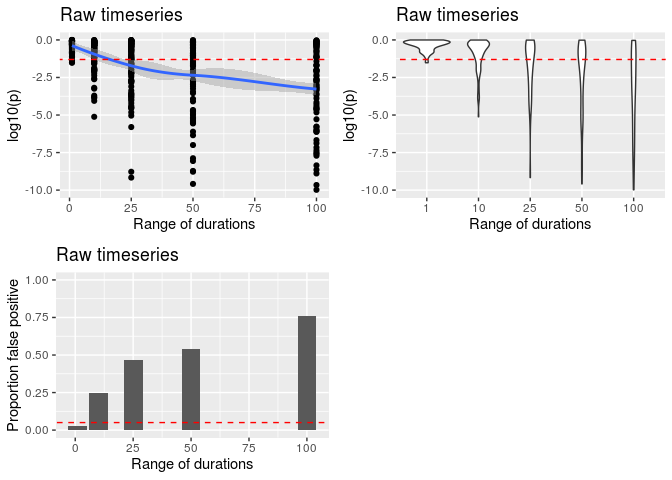
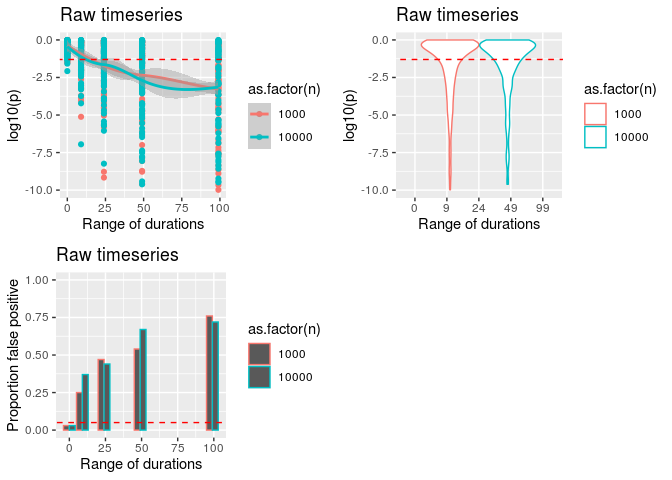
Knit the duration simulations

diff --git a/code/duration_sim.md b/code/duration_sim.md
@@ -50,17 +50,21 @@ if(file.exists(here('output', 'simulated_ts.csv.gz'))){
     cors <- fread(here('output', 'simulated_ts.csv.gz'))
 } else {
     set.seed(5)
-    n<- 1000 # number of timeseries per dataset
     nreps <- 100 # number of datasets
     
-    cors <- data.table(minduration = rep(c(10,3,3,3,3), nreps), maxduration = rep(c(10, 12, 27, 52, 102), nreps), p = NA_real_, cor = NA_real_) # holds the summaries from each dataset
+    cors <- data.table(n = 1000, minduration = rep(c(10,3,3,3,3), nreps), maxduration = rep(c(10, 12, 27, 52, 102), nreps), p = NA_real_, cor = NA_real_) # holds the summaries from each dataset. use n = 1000 timeseries per dataset.
+    cors2 <- copy(cors)
+    cors2[, n:=10000] # add another run with 10k timeseries per dataset
+    cors <- rbind(cors, cors2) 
+    rm(cors2)
+    
     pb <- txtProgressBar(min = 0, max = nrow(cors), style = 3) # progress bar
     
     for(i in 1:nrow(cors)){
         # make datasets with timeseries of all the same length
         if(cors[i, minduration == maxduration]){
             len <- cors[i, minduration]
-            dat <- data.table(tsid = rep(1:n, rep(len, n)), index = rep(1:len, n), value1 = rnorm(len*n), value2 = rnorm(len*n))
+            dat <- data.table(tsid = rep(1:cors[i,n], rep(len, cors[i,n])), index = rep(1:len, cors[i,n]), value1 = rnorm(len*cors[i,n]), value2 = rnorm(len*cors[i,n]))
         }
         
         # variable length timeseries
@@ -68,7 +72,7 @@ if(file.exists(here('output', 'simulated_ts.csv.gz'))){
             mind <- cors[i, minduration]
             maxd <- cors[i, maxduration]
             ndur <- maxd - mind + 1
-            dat <- data.table(tsid = rep(1:n, rep(mind:maxd, n/ndur)))
+            dat <- data.table(tsid = rep(1:cors[i,n], rep(mind:maxd, cors[i,n]/ndur)))
             dat[, ':='(value1 = rnorm(.N), value2 = rnorm(.N))]
         }
         
@@ -82,7 +86,7 @@ if(file.exists(here('output', 'simulated_ts.csv.gz'))){
     close(pb)
     
     cors[, name := paste0(minduration, '-', maxduration)]
-    cors[, range := maxduration - minduration + 1]
+    cors[, range := maxduration - minduration]
     
     write.csv(cors, gzfile(here('output', 'simulated_ts.csv.gz')), row.names = FALSE)
 }
@@ -92,21 +96,22 @@ if(file.exists(here('output', 'simulated_ts.csv.gz'))){
 
 ``` r
 ylims = c(-10, 0)
-p1 <- ggplot(cors, aes(range, log10(p))) +
+p1 <- ggplot(cors, aes(range, log10(p), group = as.factor(n), color = as.factor(n))) +
            geom_point() +
            geom_smooth() +
            labs(x = 'Range of durations', title = 'Raw timeseries') +
            lims(y = ylims) +
            geom_abline(intercept = log10(0.05), slope = 0, linetype = 'dashed', color = 'red')
 
-p2 <- ggplot(cors, aes(as.factor(range), log10(p))) +
+p2 <- ggplot(cors, aes(as.factor(range), log10(p), group = as.factor(n), color = as.factor(n))) +
            geom_violin() +
            labs(x = 'Range of durations', title = 'Raw timeseries') +
            lims(y = ylims) +
            geom_abline(intercept = log10(0.05), slope = 0, linetype = 'dashed', color = 'red')
 
-p3 <- ggplot(cors[, .(prop = sum(p < 0.05)/length(p)), by = range], aes(range, prop)) +
-    geom_col() +
+p3 <- ggplot(cors[, .(prop = sum(p < 0.05)/length(p)), by = c("range", "n")], 
+             aes(range, prop, group = as.factor(n), color = as.factor(n))) +
+    geom_col(position = "dodge") +
     labs(x = 'Range of durations', title = 'Raw timeseries', y = 'Proportion false positive') +
     lims(y = c(0,1)) +
     geom_abline(intercept = 0.05, slope = 0, linetype = 'dashed', color = 'red')
@@ -116,10 +121,10 @@ ggarrange(p1, p2, p3, ncol = 2, nrow = 2)
 
     ## `geom_smooth()` using method = 'loess' and formula 'y ~ x'
 
-    ## Warning: Removed 36 rows containing non-finite values (stat_smooth).
+    ## Warning: Removed 86 rows containing non-finite values (stat_smooth).
 
-    ## Warning: Removed 36 rows containing missing values (geom_point).
+    ## Warning: Removed 86 rows containing missing values (geom_point).
 
-    ## Warning: Removed 36 rows containing non-finite values (stat_ydensity).
+    ## Warning: Removed 86 rows containing non-finite values (stat_ydensity).
 
 ![](duration_sim_files/figure-gfm/unnamed-chunk-3-1.png)<!-- -->
